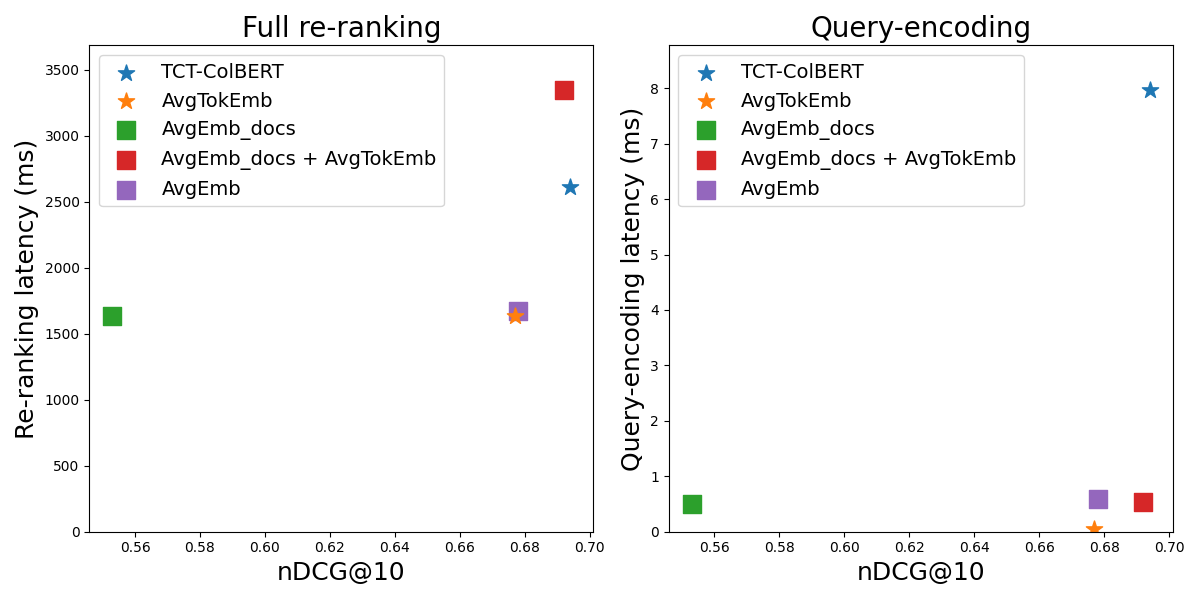
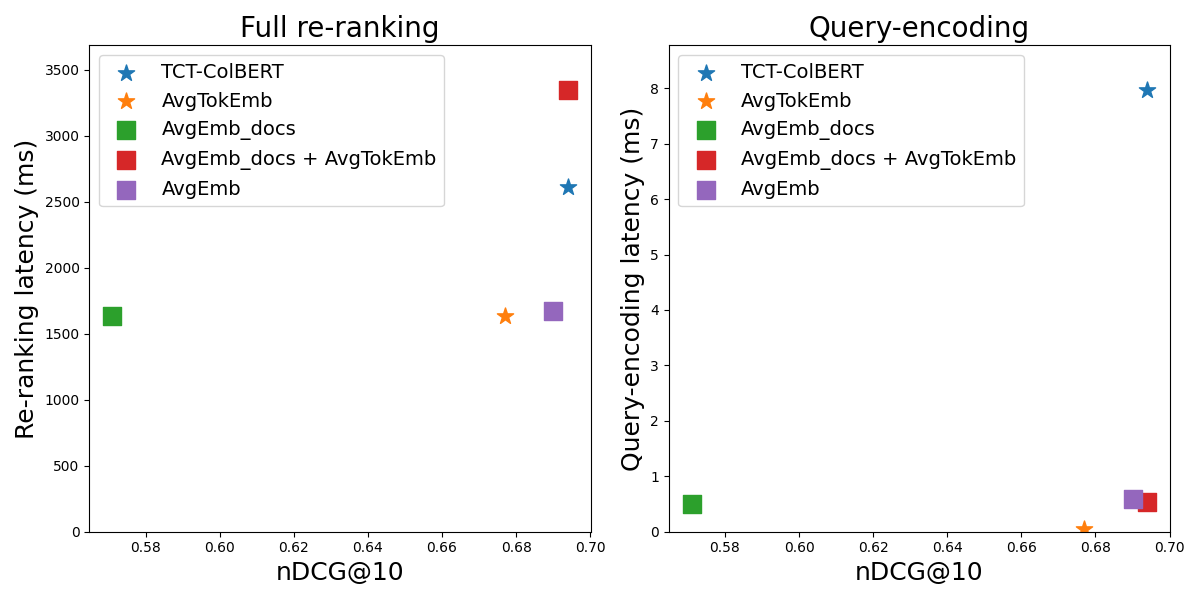
Update plots

diff --git a/plot_data/performance_efficiency_graph.py b/plot_data/performance_efficiency_graph.py
@@ -80,19 +80,19 @@ def main(args: argparse.Namespace) -> None:
             "name": "AvgEmb_docs",
             "latency": 1636,
             "latency_enc": 64.8,
-            "nDCG@10": 0.553,
+            "nDCG@10": 0.571,
         },
         {
             "name": "AvgEmb_docs + AvgTokEmb",
             "latency": 3350,
             "latency_enc": 68.59,
-            "nDCG@10": 0.692,
+            "nDCG@10": 0.694,
         },
         {
             "name": "AvgEmb",
             "latency": 1671,
             "latency_enc": 75.98,
-            "nDCG@10": 0.678,
+            "nDCG@10": 0.690,
         },
     ]
 

diff --git a/plot_data/correlation_lexical.py b/plot_data/correlation_lexical.py
@@ -113,7 +113,7 @@ def main(args: argparse.Namespace) -> None:
     start_time = time.time()
     print("\033[96m")  # Prints during setup are colored cyan
 
-    cache_file = Path(f"cache/performance_per_query_cache.pt")
+    cache_file = Path(f"cache/performance_per_query_cache4.pt")
     if cache_file.exists():
         performances = torch.load(cache_file, map_location=args.device)
         print(f"Loaded df from cache file: {cache_file}")
